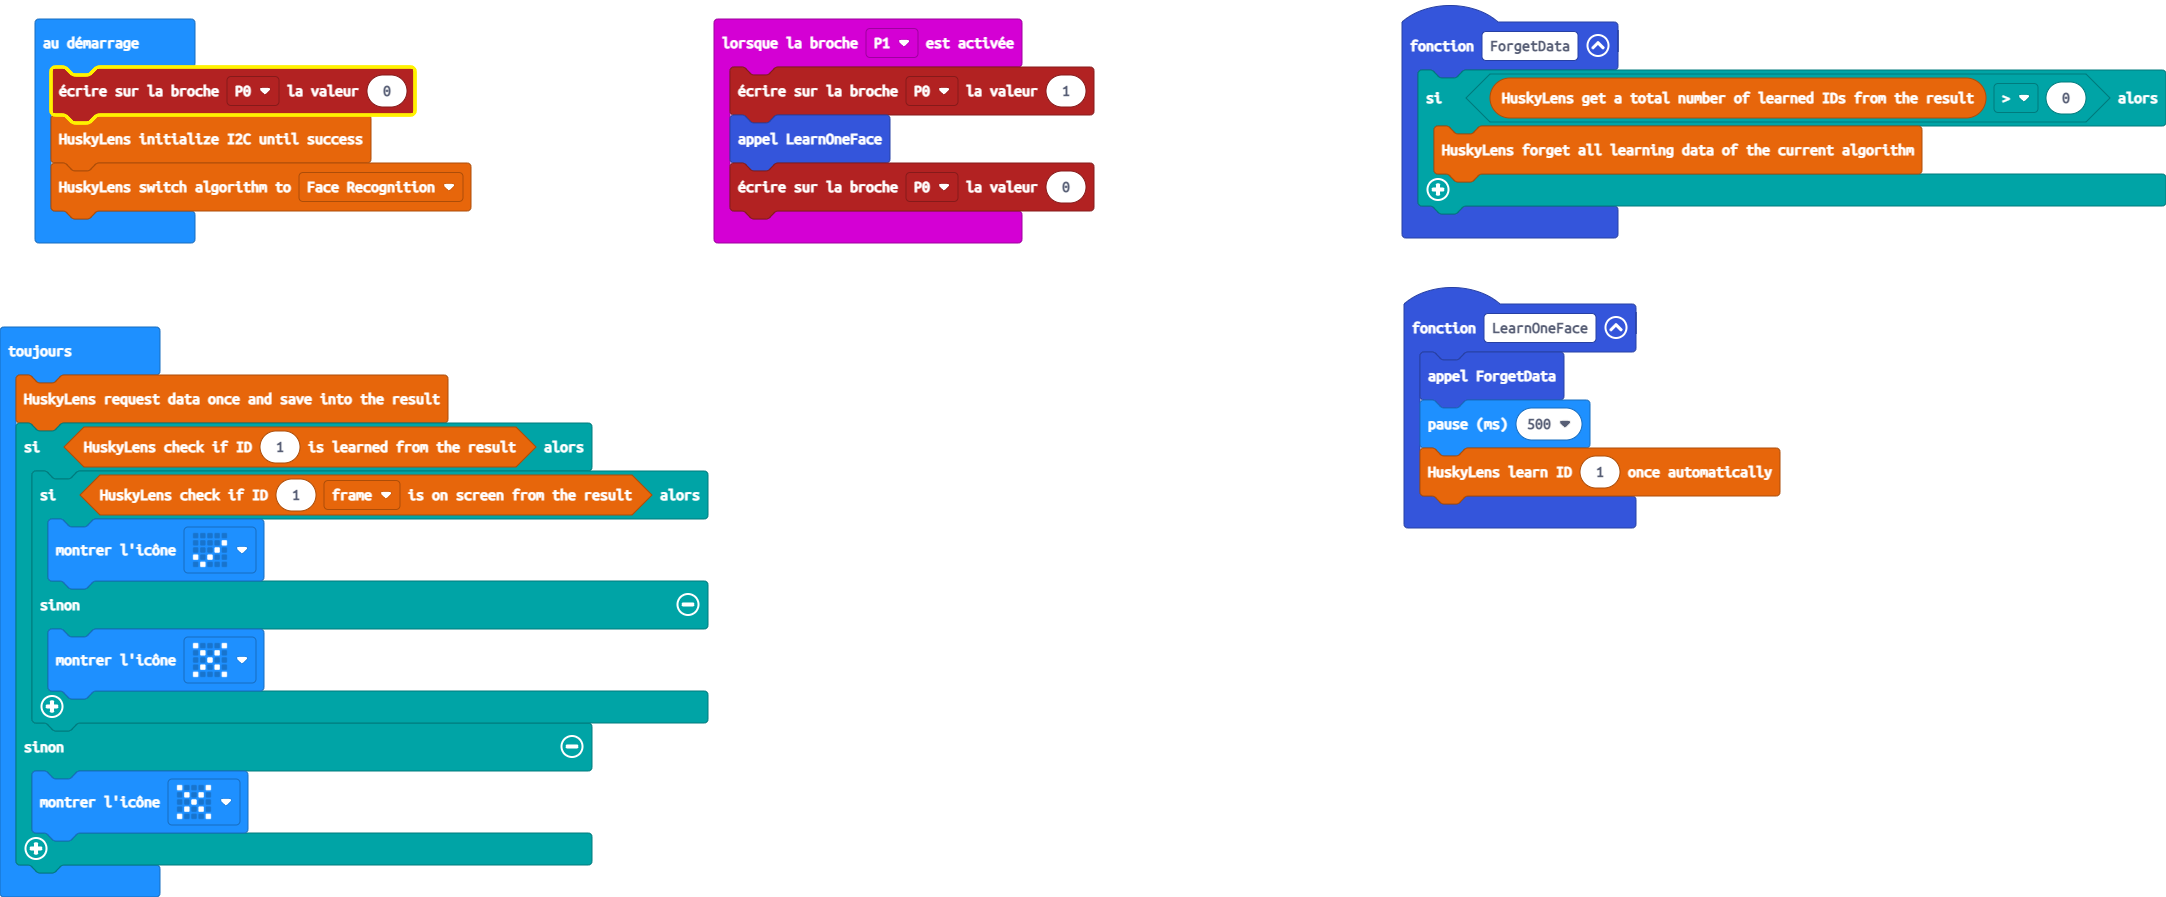
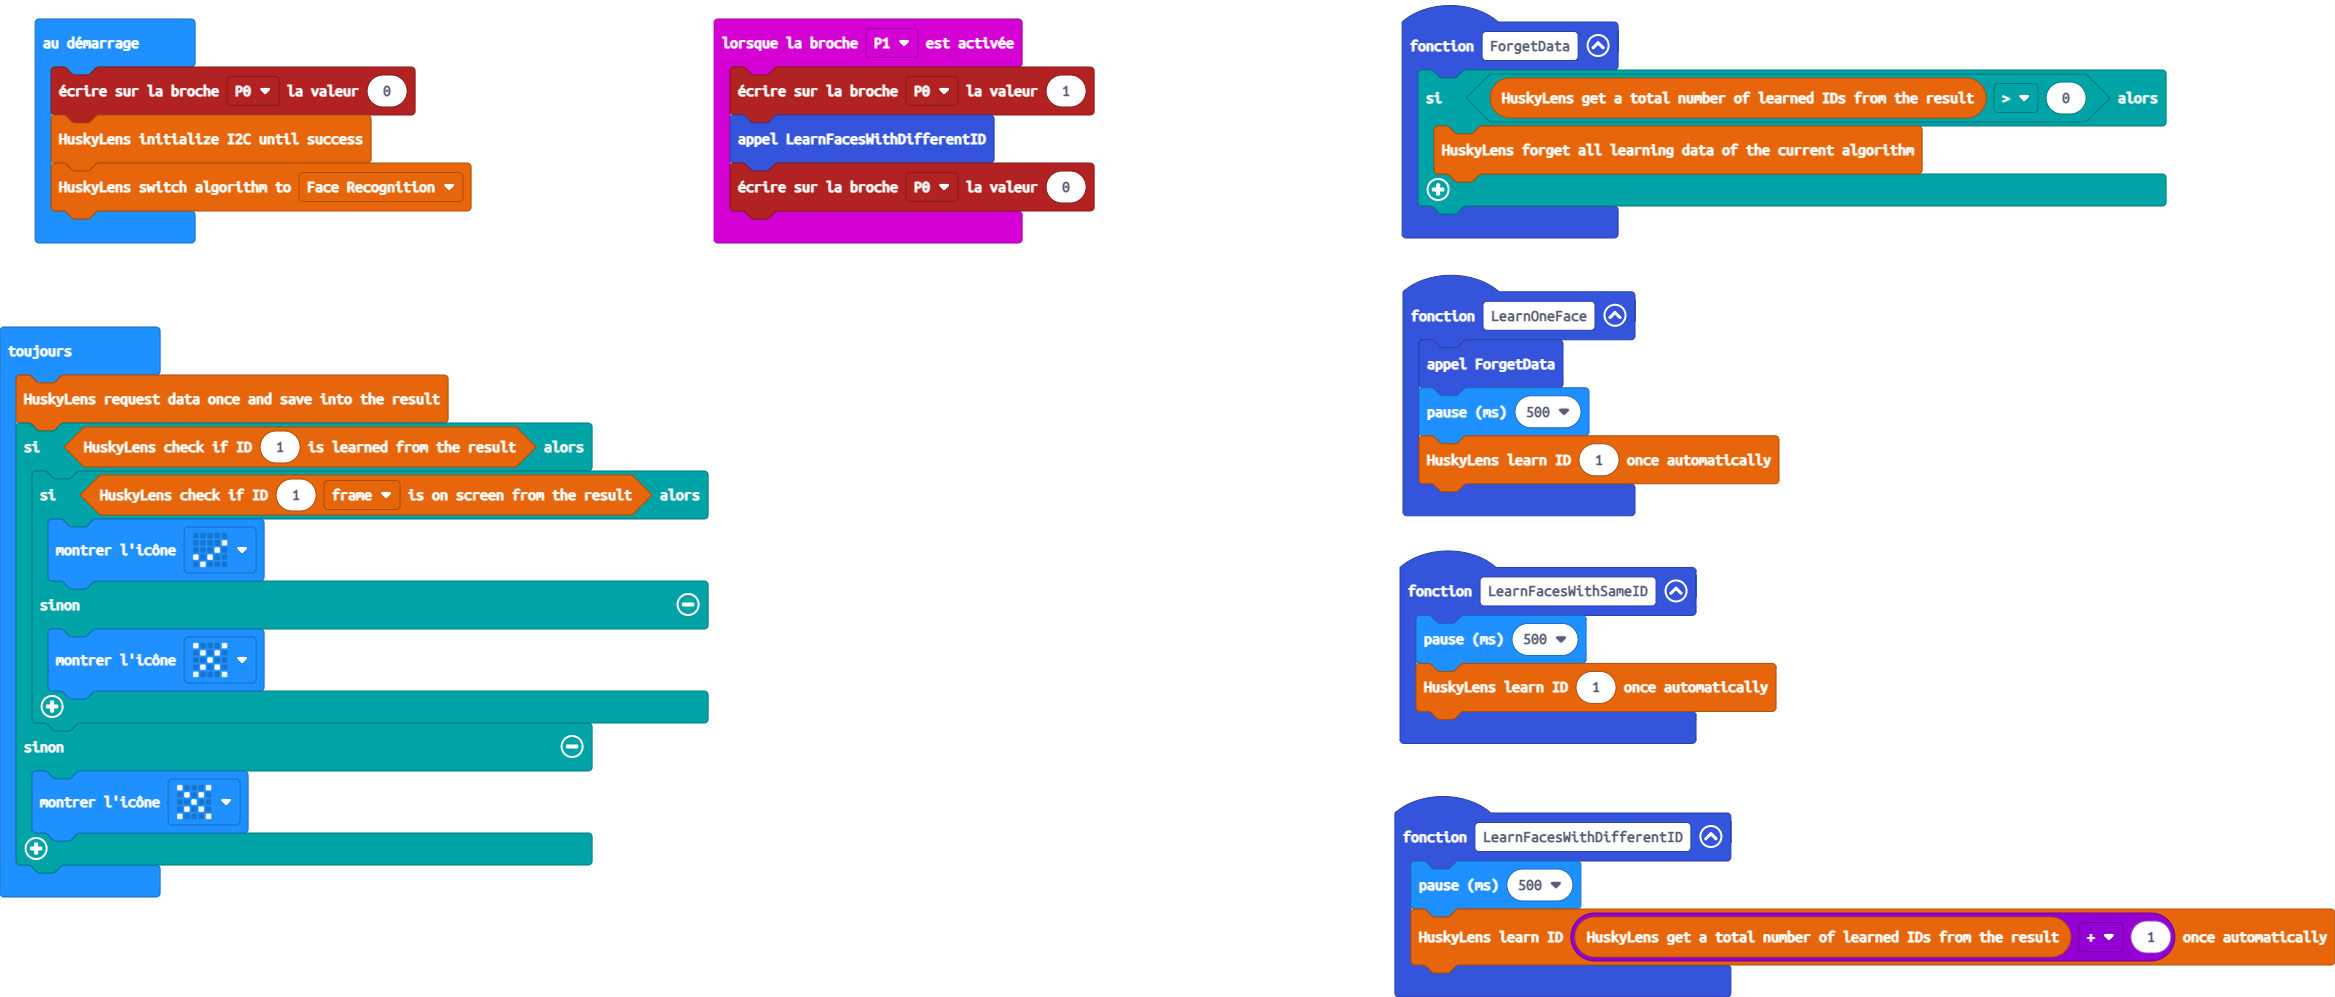
Add 2 new functions LearnFacesWithSameID and LearnFacesWithDifferentID

diff --git a/main.ts b/main.ts
@@ -3,9 +3,17 @@ function ForgetData () {
         huskylens.forgetLearn()
     }
 }
+function LearnFacesWithDifferentID () {
+    basic.pause(500)
+    huskylens.writeLearn1(huskylens.getIds() + 1)
+}
+function LearnFacesWithSameID () {
+    basic.pause(500)
+    huskylens.writeLearn1(1)
+}
 input.onPinPressed(TouchPin.P1, function () {
     pins.digitalWritePin(DigitalPin.P0, 1)
-    LearnOneFace()
+    LearnFacesWithDifferentID()
     pins.digitalWritePin(DigitalPin.P0, 0)
 })
 function LearnOneFace () {
